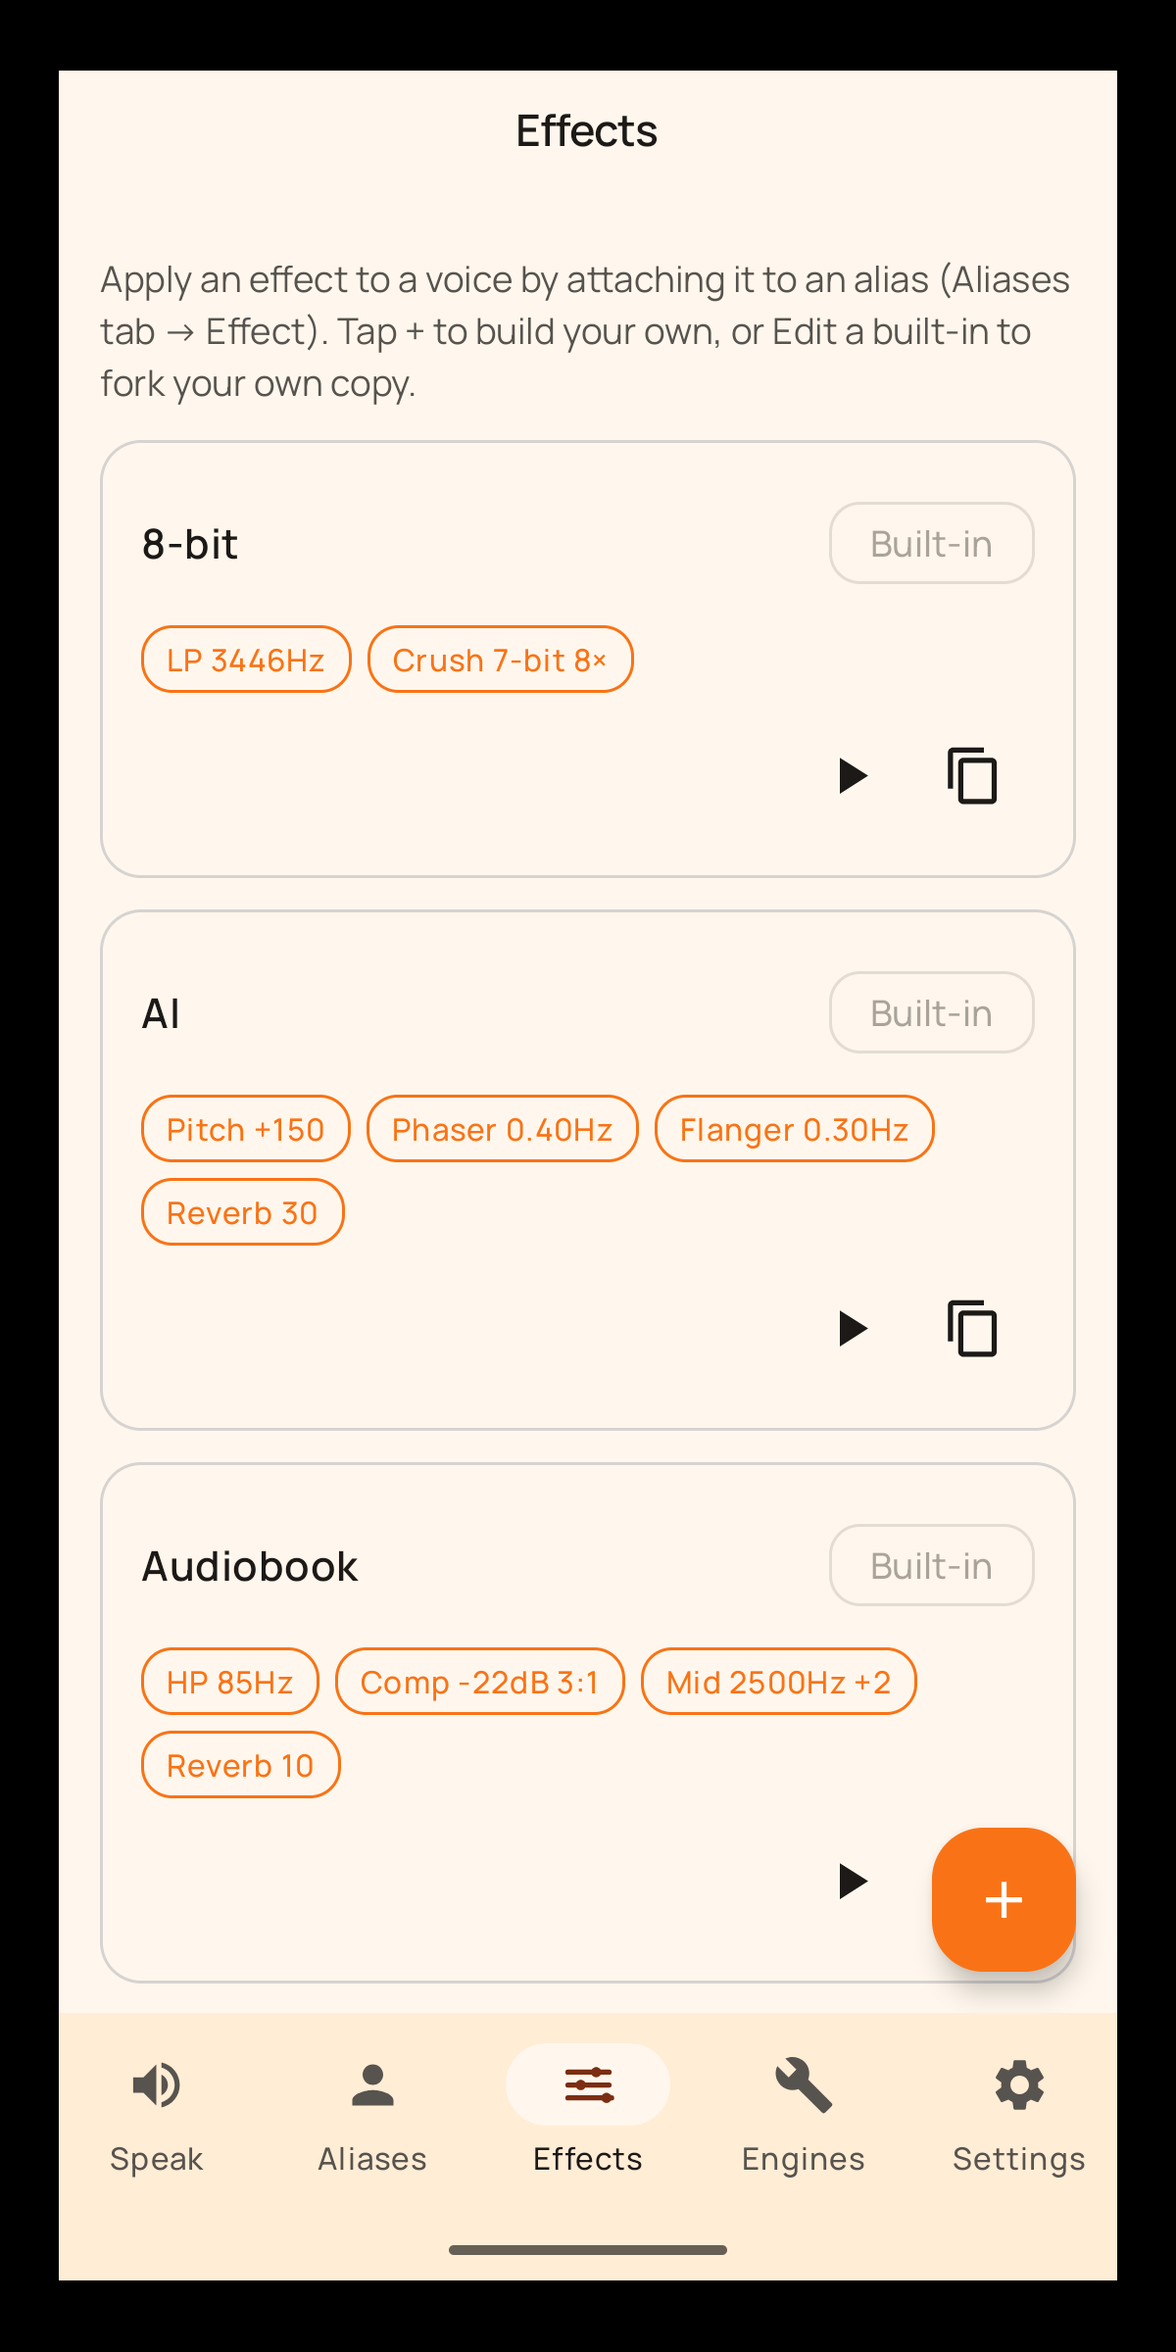
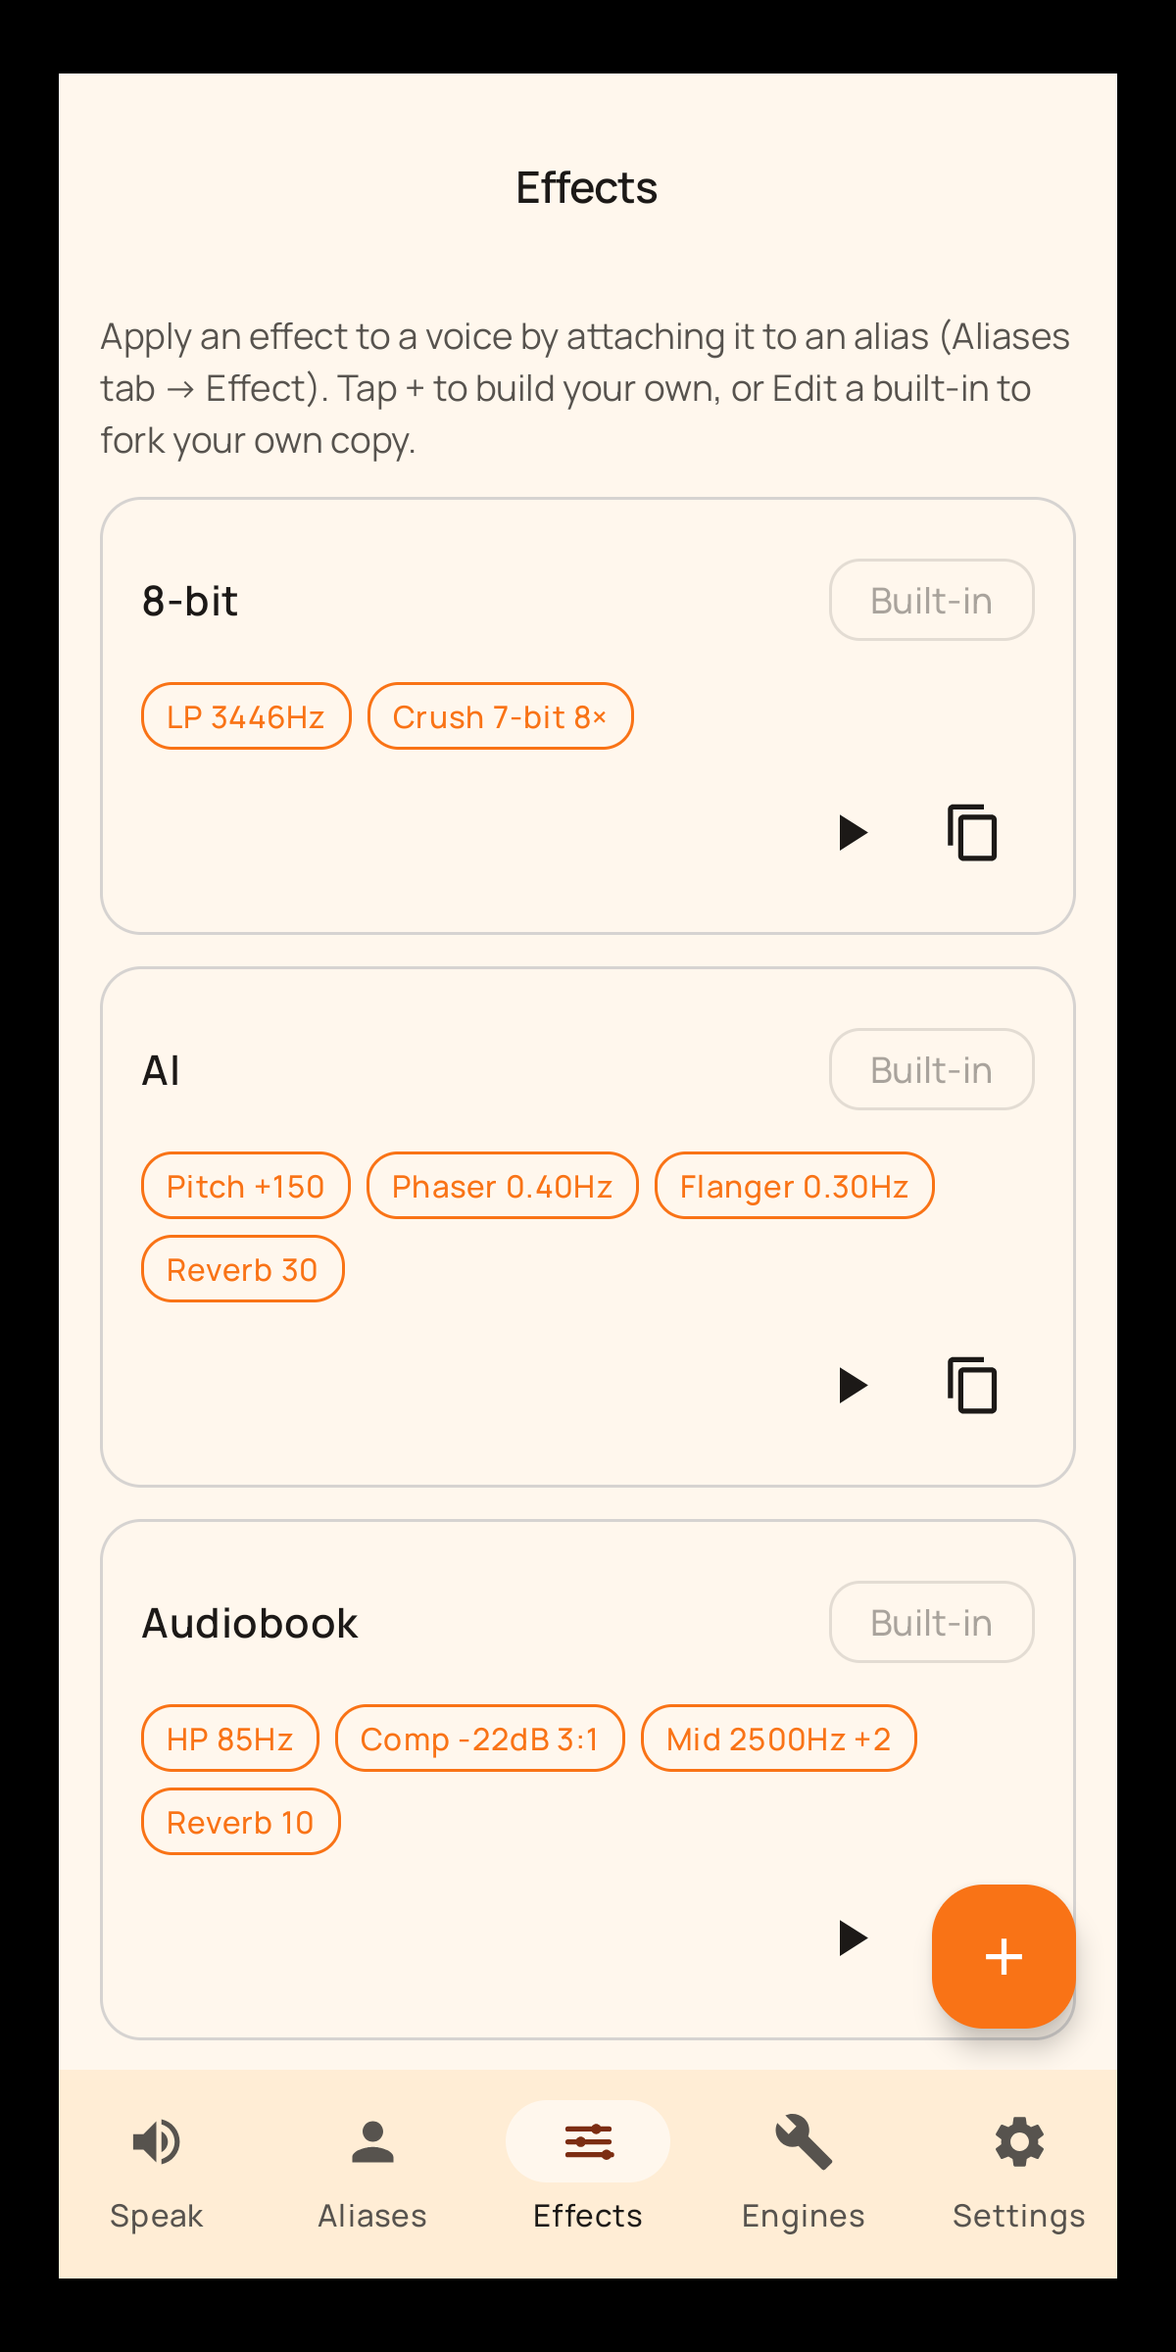
docs(release): listing lab pass 2 — code-grounded copy + restyled shots
All 11 shots restyled: minimal 90px status-bar crop (was 145), bottom
60px gesture-pill strip removed, 07-engines now lossless from device
(replaces the chat-paste upscale, raw removed). Copy fact-checked
against the app: emoji prosody IS live (SynthesisPipeline +
ProsodyApplier), no 'robot' preset (23 real ones), Kitten Nano baked
into the APK ('bundles no model files' was false), aliases not
'personas' + per-app routing now in the copy. Default lineup: 09
(Edit Nova) out, Aliases second.

diff --git a/docs/release/fdroid-listing-lab.html b/docs/release/fdroid-listing-lab.html
@@ -60,6 +60,7 @@
 .chg{border-left:3px solid var(--warn);padding-left:14px;margin:18px 0}
 .chg h4{margin:0 0 6px;font-size:16px}
 .chg .why{color:var(--dim);font-size:14px;margin:0 0 8px}
+.chg .why code{font-size:13px}
 </style>
 </head>
 <body>
@@ -72,17 +73,18 @@
 
 <section class="mockwrap">
   <h2 class="sec">The listing, as F-Droid will show it</h2>
-  <p class="lede">Everything inside the light card is a faithful mock of an
-  f-droid.org app page. The toggle switches between the copy that's in
-  fastlane <b>today</b> and the <b>proposed revision</b> (private-first
-  framing, honest about cloud, multilingual call-out). Amber highlights =
+  <p class="lede">The light card is a faithful mock of an f-droid.org app
+  page. The toggle switches between the copy in fastlane <b>today</b> and the
+  <b>proposed revision</b> — every changed paragraph was checked against the
+  app's actual code this round (evidence under each change below). Amber =
   changed or new text awaiting your sign-off.</p>
 
   <div class="togglerow">
     <input type="checkbox" id="proposed" checked>
     <label for="proposed">Show <b>proposed revision</b> (off = current
-    fastlane text verbatim — which still claims "No cloud" and
-    "the only network use is engine downloads", both now false)</label>
+    fastlane text verbatim, which has four false claims: "No cloud",
+    "bundles no model files", a "robot" preset that doesn't exist, and
+    "the only network use is engine downloads")</label>
   </div>
 
   <div class="fd">
@@ -111,24 +113,23 @@
     </div>
   </div>
   <p class="note" style="margin-top:12px">* Anti-features are assigned by
-  F-Droid reviewers, not us. Now that the app offers opt-in cloud engines
-  talking to a proprietary service, a <b>NonFreeNet</b> tag is plausible.
-  It doesn't block listing — it's a label — but the honest copy below is
-  also our best argument that cloud is strictly opt-in.</p>
+  F-Droid reviewers, not us. With opt-in cloud engines talking to a
+  proprietary service, a <b>NonFreeNet</b> tag is plausible. It doesn't block
+  listing — it's a label — and the copy's "strictly opt-in" framing is our
+  best argument.</p>
 </section>
 
 <section class="mockwrap" style="margin-top:34px">
   <h2 class="sec">Screenshot keepers + order (gate G1)</h2>
   <p class="lede">Click a shot to include/exclude it; ◀ ▶ moves it within the
-  strip. F-Droid shows a horizontal strip — <b>4–8 shots is typical</b>; the
-  first two carry almost all the weight. Your picks persist in this browser.
-  Selected: <b id="selcount"></b></p>
-  <p class="note">07-engines is the <b>reshoot you sent 2026-08-09</b>, styled
-  into the standard treatment (status bar cropped, black 1200×2400 frame). It
-  came through chat at 900×2000 and was upscaled — text is slightly softer than
-  the other ten. Fine for picking; before the shots ship, drop the original
-  1080×2400 PNG into <code>docs/release/screenshots-inbox/</code> (or reconnect
-  ADB) and I'll restyle it losslessly.</p>
+  strip. <b>4–8 shots is typical</b>; the first two carry almost all the
+  weight. Per your calls: <b>09 (Edit Nova two-sheet) is out</b> and
+  <b>Aliases sits second</b> — the default lineup below is a proposal, rearrange
+  freely. Picks persist in this browser. Selected: <b id="selcount"></b></p>
+  <p class="note">All 11 restyled this round: original 07 pulled from the
+  device over ADB (lossless now), status-bar crop reduced to the minimum
+  (90 px — the app keeps its own headroom), and the bottom 60 px gesture-pill
+  strip removed set-wide.</p>
   <div class="shotgrid" id="grid"></div>
   <p class="note" style="margin-top:14px">When you're happy, say the word and
   the selected set gets copied in order into
@@ -139,10 +140,9 @@
 <section class="mockwrap" style="margin-top:34px">
   <h2 class="sec">The copy, for sign-off (gate G5, step 1)</h2>
   <p class="lede">Approve the English first; then it gets translated into the
-  7 other in-app locales as fastlane folders — both land before the 1.0.0 tag.
-  The changes below follow your call: <b>advertise "private", not "no
-  cloud"</b> — on-device is private, and the cloud path through a
-  privacy-respecting provider is private too.</p>
+  7 other in-app locales as fastlane folders — both land before the 1.0.0
+  tag. Framing per your call: <b>advertise "private", not "no cloud"</b>.
+  Every claim below was verified against the code this round.</p>
 
   <h3>Title <span class="count-ok">(13 chars — limit 50, unchanged)</span></h3>
   <div class="copyblock"><pre>Marmalade TTS</pre></div>
@@ -158,44 +158,89 @@
   <div class="chg">
     <h4>Intro paragraph — REVISED (last sentence)</h4>
     <p class="why">Was: "…works entirely on-device… No cloud, no account, no
-    tracking." Reframed: private first, on-device by default.</p>
+    tracking."</p>
     <div class="copyblock"><pre>Marmalade TTS turns your phone into a private, high-quality text-to-speech engine. Register it as your system TTS engine and every app that reads text aloud — your screen reader, e-reader, podcast or article reader, accessibility tools, and AI chat apps — can speak through Marmalade. Voices run on-device by default. No account, no tracking, no ads.</pre></div>
   </div>
 
   <div class="chg">
+    <h4>ON-DEVICE NEURAL VOICES — REVISED</h4>
+    <p class="why">Was: "The app ships small and bundles no model files" —
+    false since 2026-08-04: Kitten Nano is baked into the APK
+    (<code>assets/engines-seed/kitten-direct-v0_8</code>, 58 MB) so the app
+    speaks offline out of the box. Turned the inaccuracy into the selling
+    point.</p>
+    <div class="copyblock"><pre>ON-DEVICE NEURAL VOICES
+Speech is synthesized locally using neural voice models, and a fast English voice is built in — Marmalade speaks out of the box, fully offline. Bigger engines and voices download only when you choose to install them, and the text you have read by on-device voices never leaves your phone.</pre></div>
+  </div>
+
+  <div class="chg">
     <h4>New section: SPEAKS 8 LANGUAGES</h4>
-    <p class="why">Your 2026-08-04 note: name the languages; plus the
-    auto-detect feature that shipped since. Inserted after MULTIPLE ENGINES
-    AND VOICES.</p>
+    <p class="why">Your 2026-08-04 note + the auto-detect feature. Inserted
+    after MULTIPLE ENGINES AND VOICES.</p>
     <div class="copyblock"><pre>SPEAKS 8 LANGUAGES
 With the Kokoro engine, Marmalade speaks English (US and UK), Spanish, French, Italian, Portuguese (Brazil), Hindi, Japanese, and Mandarin Chinese. It detects the language of each utterance automatically and switches pronunciation on the fly — a Kokoro voice reads Spanish text with Spanish pronunciation without you touching a setting.</pre></div>
   </div>
 
   <div class="chg">
     <h4>New section: OPTIONAL CLOUD VOICES</h4>
-    <p class="why">The Cloud tab exists; the listing has to own it. Framed as
-    opt-in + privacy-respecting. Check the Venice claim wording before
-    sign-off — "doesn't store your text" is their promise, so the copy
-    attributes it rather than asserting it ourselves.</p>
+    <p class="why">The Cloud tab exists; the listing has to own it. The
+    no-logging claim is attributed to Venice's design, not asserted as our
+    guarantee.</p>
     <div class="copyblock"><pre>OPTIONAL CLOUD VOICES
 Want voices beyond what your phone can run? Add a cloud engine with your own API key. Marmalade is built around privacy-respecting providers — such as Venice.ai, which is designed not to store or log your requests. Cloud engines are strictly opt-in: until you add one yourself, the text you have read never leaves your phone.</pre></div>
   </div>
 
   <div class="chg">
+    <h4>EXPRESSIVE, EMOTION-AWARE SPEECH — REVISED + your call</h4>
+    <p class="why">You asked "we do not have emoji text?" — <b>we do, it's
+    live</b>: <code>SynthesisPipeline</code> runs
+    <code>EmojiProsody.detect()</code> on every utterance and
+    <code>ProsodyApplier</code> shapes the audio (pitch/rate/volume per
+    emotion; 11 emoji: 😍😡😎😭🙄😁🙂🤣😮😅🤔) on all engines, in the app and
+    as system TTS. It's a simple audio-shaping pass, not model-level acting —
+    so the copy is toned down to what it honestly does. <b>Ear-check it
+    before sign-off</b> (same sentence with and without 😭); if you don't
+    hear it or don't like it, we cut this section.</p>
+    <div class="copyblock"><pre>EXPRESSIVE, EMOTION-AWARE SPEECH
+Emoji shape the delivery. End a line with an emoji like 😁 or 😭 and Marmalade shifts the pitch, pace, and energy of the spoken audio to match the mood — on any voice.</pre></div>
+  </div>
+
+  <div class="chg">
+    <h4>AUDIO EFFECTS — REVISED</h4>
+    <p class="why">Was: "presets (such as cave, robot, and telephone)" —
+    there is no "robot" preset. The app ships 23
+    (<code>BuiltinEffects.kt</code>) plus a full chain editor
+    (screenshot 06).</p>
+    <div class="copyblock"><pre>AUDIO EFFECTS
+Give spoken output character with over 20 built-in effect presets — cave, telephone, megaphone, vintage radio, dragon, and more — or build your own effect chains in the editor.</pre></div>
+  </div>
+
+  <div class="chg">
+    <h4>VOICE ALIASES — REVISED (personas out, routing in)</h4>
+    <p class="why">Your calls: they're just "aliases", no "personas". Also
+    dropped the desktop-tool reference and added <b>per-app routing</b> —
+    the distinguishing feature the old copy never mentioned (alias cards
+    route apps; unrouted apps follow the primary alias).</p>
+    <div class="copyblock"><pre>VOICE ALIASES
+Save named voice setups — a voice plus its speed and effects — and switch between them instantly. Route apps to aliases: your e-reader can speak in one voice while your chat app uses another, automatically, per app. Everything unrouted follows your primary alias.</pre></div>
+  </div>
+
+  <div class="chg">
     <h4>PRIVATE BY DESIGN — REVISED</h4>
     <p class="why">Was: "…no backend. The only network use is downloading the
-    engine files you choose to install." Now false for cloud engines.</p>
+    engine files you choose to install." False for cloud engines.</p>
     <div class="copyblock"><pre>PRIVATE BY DESIGN
 No analytics, no telemetry, no ads, no accounts, and no backend of our own. On-device voices use the network only to download the engine files you choose. Cloud voices talk only to the provider you configured, using your own key — nothing passes through us. See the in-app privacy policy for details.</pre></div>
   </div>
 
-  <h3>Unchanged sections</h3>
-  <p class="sub">WORKS EVERYWHERE, ACCESSIBLE BY DESIGN, ON-DEVICE NEURAL
-  VOICES, MULTIPLE ENGINES AND VOICES, EXPRESSIVE, AUDIO EFFECTS, ALIASES,
-  LONG-FORM READING, HANDY SHORTCUTS, OPEN SOURCE — verbatim from fastlane.
-  (ON-DEVICE NEURAL VOICES keeps "the text you have it read never leaves your
-  phone" — still true under that heading, which is explicitly about the
-  on-device engines.)</p>
+  <h3>Verified unchanged</h3>
+  <p class="sub">WORKS EVERYWHERE (system TTS engine interface — manifest),
+  ACCESSIBLE BY DESIGN (grounded in the two audit docs; TalkBack device pass
+  still pending — wording stays "designed to meet"), MULTIPLE ENGINES AND
+  VOICES, LONG-FORM READING (MediaSession in MarmaladeSynthService =
+  lock-screen/Bluetooth controls), HANDY SHORTCUTS (ACTION_SEND +
+  PROCESS_TEXT + SpeakClipboardTileService all in the manifest), OPEN
+  SOURCE — all verbatim and all code-checked this round.</p>
 
   <h3>Your notes</h3>
   <textarea class="tracker" data-k="fdl-notes" rows="4"
@@ -208,19 +253,20 @@ No analytics, no telemetry, no ads, no accounts, and no backend of our own. On-d
 const SHOTS = [
   ["01-speak-light","Speak — light"],
   ["02-aliases","Aliases + routing"],
-  ["03-kokoro-voices-en","Kokoro voices — EN"],
   ["04-kokoro-voices-multilang","Kokoro voices — multilang"],
+  ["07-engines","Engines"],
   ["05-effects","Effects presets"],
-  ["06-effect-editor","Effect editor"],
-  ["07-engines","Engines (reshoot)"],
-  ["08-engines-cloud","Engines — cloud"],
-  ["09-voice-picker","Voice picker"],
   ["10-speak-dark","Speak — dark"],
+  ["03-kokoro-voices-en","Kokoro voices — EN"],
+  ["06-effect-editor","Effect editor"],
+  ["08-engines-cloud","Engines — cloud"],
   ["11-speak-dynamic-dark","Speak — dynamic dark"],
+  ["09-voice-picker","Voice picker (Edit Nova)"],
 ];
-const LSK="fdroid-listing-lab-v1";
+const DEFAULT_ON = new Set(["01-speak-light","02-aliases","04-kokoro-voices-multilang","07-engines","05-effects","10-speak-dark"]);
+const LSK="fdroid-listing-lab-v2";   // v2: new defaults per Max 2026-08-09
 let state = JSON.parse(localStorage.getItem(LSK)||"null")
-  || SHOTS.map(s=>({id:s[0],on:true}));
+  || SHOTS.map(s=>({id:s[0],on:DEFAULT_ON.has(s[0])}));
 state = state.filter(e=>SHOTS.some(s=>s[0]===e.id));
 SHOTS.forEach(s=>{ if(!state.some(e=>e.id===s[0])) state.push({id:s[0],on:false}); });
 
@@ -284,8 +330,7 @@ No analytics, no telemetry, no ads, no accounts, and no backend. The only networ
 OPEN SOURCE
 Marmalade TTS is open source. The source code is MIT-licensed; the published app includes the espeak-ng phonemizer (built from source) and is therefore distributed under the GPL-3.0-or-later, with complete corresponding source in the project repository. Full license details for every component are shown inside the app.`;
 
-/* Proposed revision. Paragraphs prefixed with "§" render highlighted
-   (changed or new vs current fastlane). */
+/* Proposed revision. Paragraphs prefixed with "§" render highlighted. */
 const SUMMARY_PROPOSED = "Private neural text-to-speech for your whole device. On-device by default.";
 const DESC_PROPOSED = `§Marmalade TTS turns your phone into a private, high-quality text-to-speech engine. Register it as your system TTS engine and every app that reads text aloud — your screen reader, e-reader, podcast or article reader, accessibility tools, and AI chat apps — can speak through Marmalade. Voices run on-device by default. No account, no tracking, no ads.
 
@@ -295,8 +340,8 @@ Marmalade implements Android's standard text-to-speech engine interface, so it's
 ACCESSIBLE BY DESIGN
 Marmalade is built for screen-reader users, not just compatible with them. The whole app works with TalkBack: every control is labeled, playback status, errors, and download progress are announced aloud, and every setting is a single clearly described switch. Designed to meet WCAG 2.1 AA, with a high-contrast dark theme that follows your system setting (or can be chosen in Settings). Every feature is free — nothing an assistive-tech user needs sits behind a purchase.
 
-ON-DEVICE NEURAL VOICES
-Speech is synthesized locally using neural voice models. The text you have it read never leaves your phone. The app ships small and bundles no model files: on first launch you choose which engines to install, and each downloads only when you opt in.
+§ON-DEVICE NEURAL VOICES
+§Speech is synthesized locally using neural voice models, and a fast English voice is built in — Marmalade speaks out of the box, fully offline. Bigger engines and voices download only when you choose to install them, and the text you have read by on-device voices never leaves your phone.
 
 MULTIPLE ENGINES AND VOICES
 Choose the trade-off that fits you — a tiny, fast engine that runs on any device, or larger high-quality and multilingual voices. Each engine offers several distinct voices, and the catalog grows over time.
@@ -307,14 +352,14 @@ Choose the trade-off that fits you — a tiny, fast engine that runs on any devi
 §OPTIONAL CLOUD VOICES
 §Want voices beyond what your phone can run? Add a cloud engine with your own API key. Marmalade is built around privacy-respecting providers — such as Venice.ai, which is designed not to store or log your requests. Cloud engines are strictly opt-in: until you add one yourself, the text you have read never leaves your phone.
 
-EXPRESSIVE, EMOTION-AWARE SPEECH
-Emoji in your text drive emotional prosody, so the same words can sound cheerful, worried, or calm depending on how you write them — even when the base voice is neutral.
+§EXPRESSIVE, EMOTION-AWARE SPEECH
+§Emoji shape the delivery. End a line with an emoji like 😁 or 😭 and Marmalade shifts the pitch, pace, and energy of the spoken audio to match the mood — on any voice.
 
-AUDIO EFFECTS
-Apply built-in audio-effect presets (such as cave, robot, and telephone) to give spoken output character.
+§AUDIO EFFECTS
+§Give spoken output character with over 20 built-in effect presets — cave, telephone, megaphone, vintage radio, dragon, and more — or build your own effect chains in the editor.
 
-VOICE ALIASES / PERSONAS
-Save named voice "personas" — a voice plus its preprocessing and effect settings — and switch between them instantly, just like the Marmalade desktop tool.
+§VOICE ALIASES
+§Save named voice setups — a voice plus its speed and effects — and switch between them instantly. Route apps to aliases: your e-reader can speak in one voice while your chat app uses another, automatically, per app. Everything unrouted follows your primary alias.
 
 LONG-FORM READING
 A foreground playback service reads long text reliably, with lock-screen and Bluetooth transport controls and the screen off.
